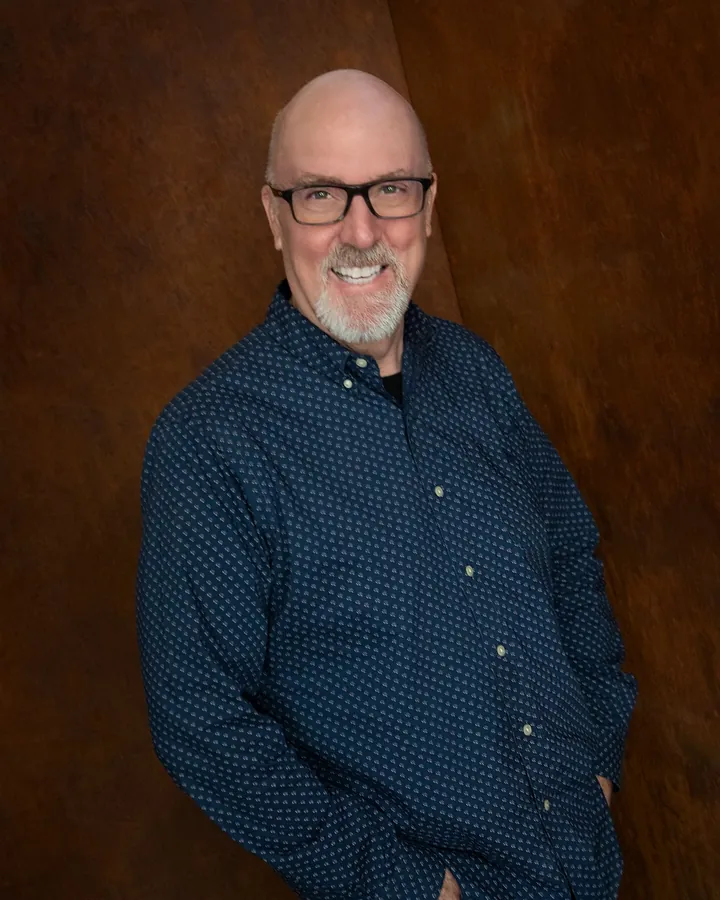
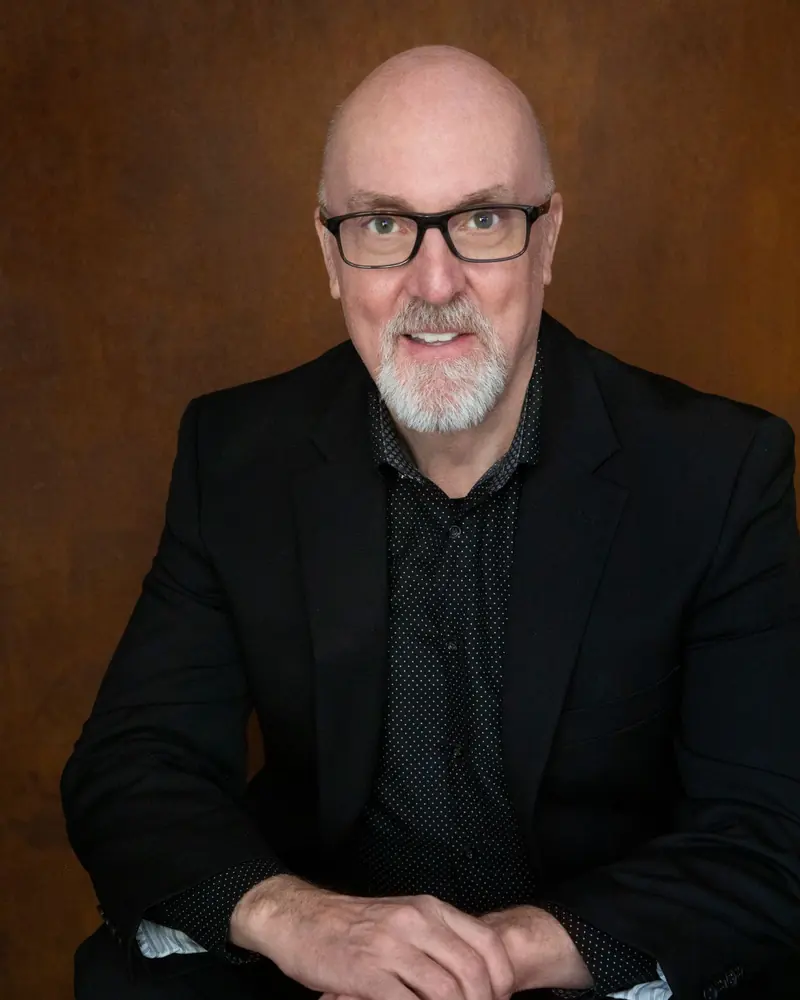
Use Johnny's seated portrait and right-size all images
- New bio photo, with a 400px version for phones (srcset)
- Smaller files sized to how they're displayed: header logo, cartoon badge,
  Best Day Ever logo
- Phones get a 960px hero photo; the hero is preloaded so it shows sooner
- Everything below the hero is lazy-loaded

Claude-Session: https://claude.ai/code/session_01J4eQE35E7qFhYGhtkA5GY9

diff --git a/public/index.html b/public/index.html
@@ -52,6 +52,9 @@
     "knowsAbout": ["Walt Disney World", "Disneyland", "Disney Cruise Line", "Universal Studios"]
   }
   </script>
+  <!-- Start the hero photo download early; it's the first thing people see -->
+  <link rel="preload" as="image" href="/images/castle-960.webp" media="(max-width: 760px)" fetchpriority="high">
+  <link rel="preload" as="image" href="/images/castle.webp" media="(min-width: 761px)" fetchpriority="high">
   <link rel="preconnect" href="https://fonts.googleapis.com">
   <link rel="preconnect" href="https://fonts.gstatic.com" crossorigin>
   <link href="https://fonts.googleapis.com/css2?family=League+Spartan:wght@500;700&family=Source+Sans+3:wght@400;600&display=swap" rel="stylesheet">
@@ -63,7 +66,7 @@
   <header class="site-header">
     <div class="container header-inner">
       <a href="/" class="logo">
-        <img src="/images/logo-192.png" alt="" width="40" height="40">
+        <img src="/images/logo-80.webp" alt="" width="40" height="40">
         <span>JungleBoat <em>Vacations</em></span>
       </a>
       <button class="nav-toggle" aria-expanded="false" aria-controls="site-nav" aria-label="Open menu">
@@ -94,15 +97,15 @@
     <section id="about" class="section">
       <div class="container split">
         <div class="portrait">
-          <img class="photo" src="/images/johnny.webp" alt="Johnny Walker, Disney travel advisor" width="720" height="900" loading="lazy">
-          <img class="badge" src="/images/jungleboat-badge.webp" alt="JungleBoat Vacations logo: a cartoon of Johnny at the wheel of a jungle boat" width="400" height="400" loading="lazy">
+          <img class="photo" src="/images/johnny.webp" srcset="/images/johnny-400.webp 400w, /images/johnny.webp 800w" sizes="(max-width: 860px) 90vw, 400px" alt="Johnny Walker, Disney travel advisor" width="800" height="1000" loading="lazy" decoding="async">
+          <img class="badge" src="/images/jungleboat-badge.webp" alt="JungleBoat Vacations logo: a cartoon of Johnny at the wheel of a jungle boat" width="360" height="360" loading="lazy" decoding="async">
         </div>
         <div>
           <p class="eyebrow eyebrow-dark">Meet your travel advisor</p>
           <h2 class="section-title">Johnny Walker</h2>
           <p class="subtitle">Former Disney Cast Member</p>
           <div class="affiliation">
-            <img src="/images/best-day-ever-logo.png" alt="Best Day Ever! Vacations logo" width="220" height="240" loading="lazy">
+            <img src="/images/best-day-ever-logo.webp" alt="Best Day Ever! Vacations logo" width="120" height="131" loading="lazy" decoding="async">
             <p>Independent Agent with<br><strong>Best Day Ever Vacations</strong></p>
           </div>
           <p>After more than 10 years as a Disneyland Cast Member and decades of executive leadership in hospitality, I understand what exceptional guest service looks like, and how much the details matter.</p>

diff --git a/public/css/styles.css b/public/css/styles.css
@@ -99,7 +99,7 @@ h1, h2, h3 { font-family: var(--font-head); font-weight: 700; line-height: 1.12;
   .hero {
     background:
       linear-gradient(rgba(14, 22, 42, 0.72), rgba(14, 22, 42, 0.78)),
-      url("/images/castle.webp") 50% 30% / cover no-repeat,
+      url("/images/castle-960.webp") 50% 30% / cover no-repeat,
       linear-gradient(135deg, var(--navy), #3a4f8a);
   }
 }
